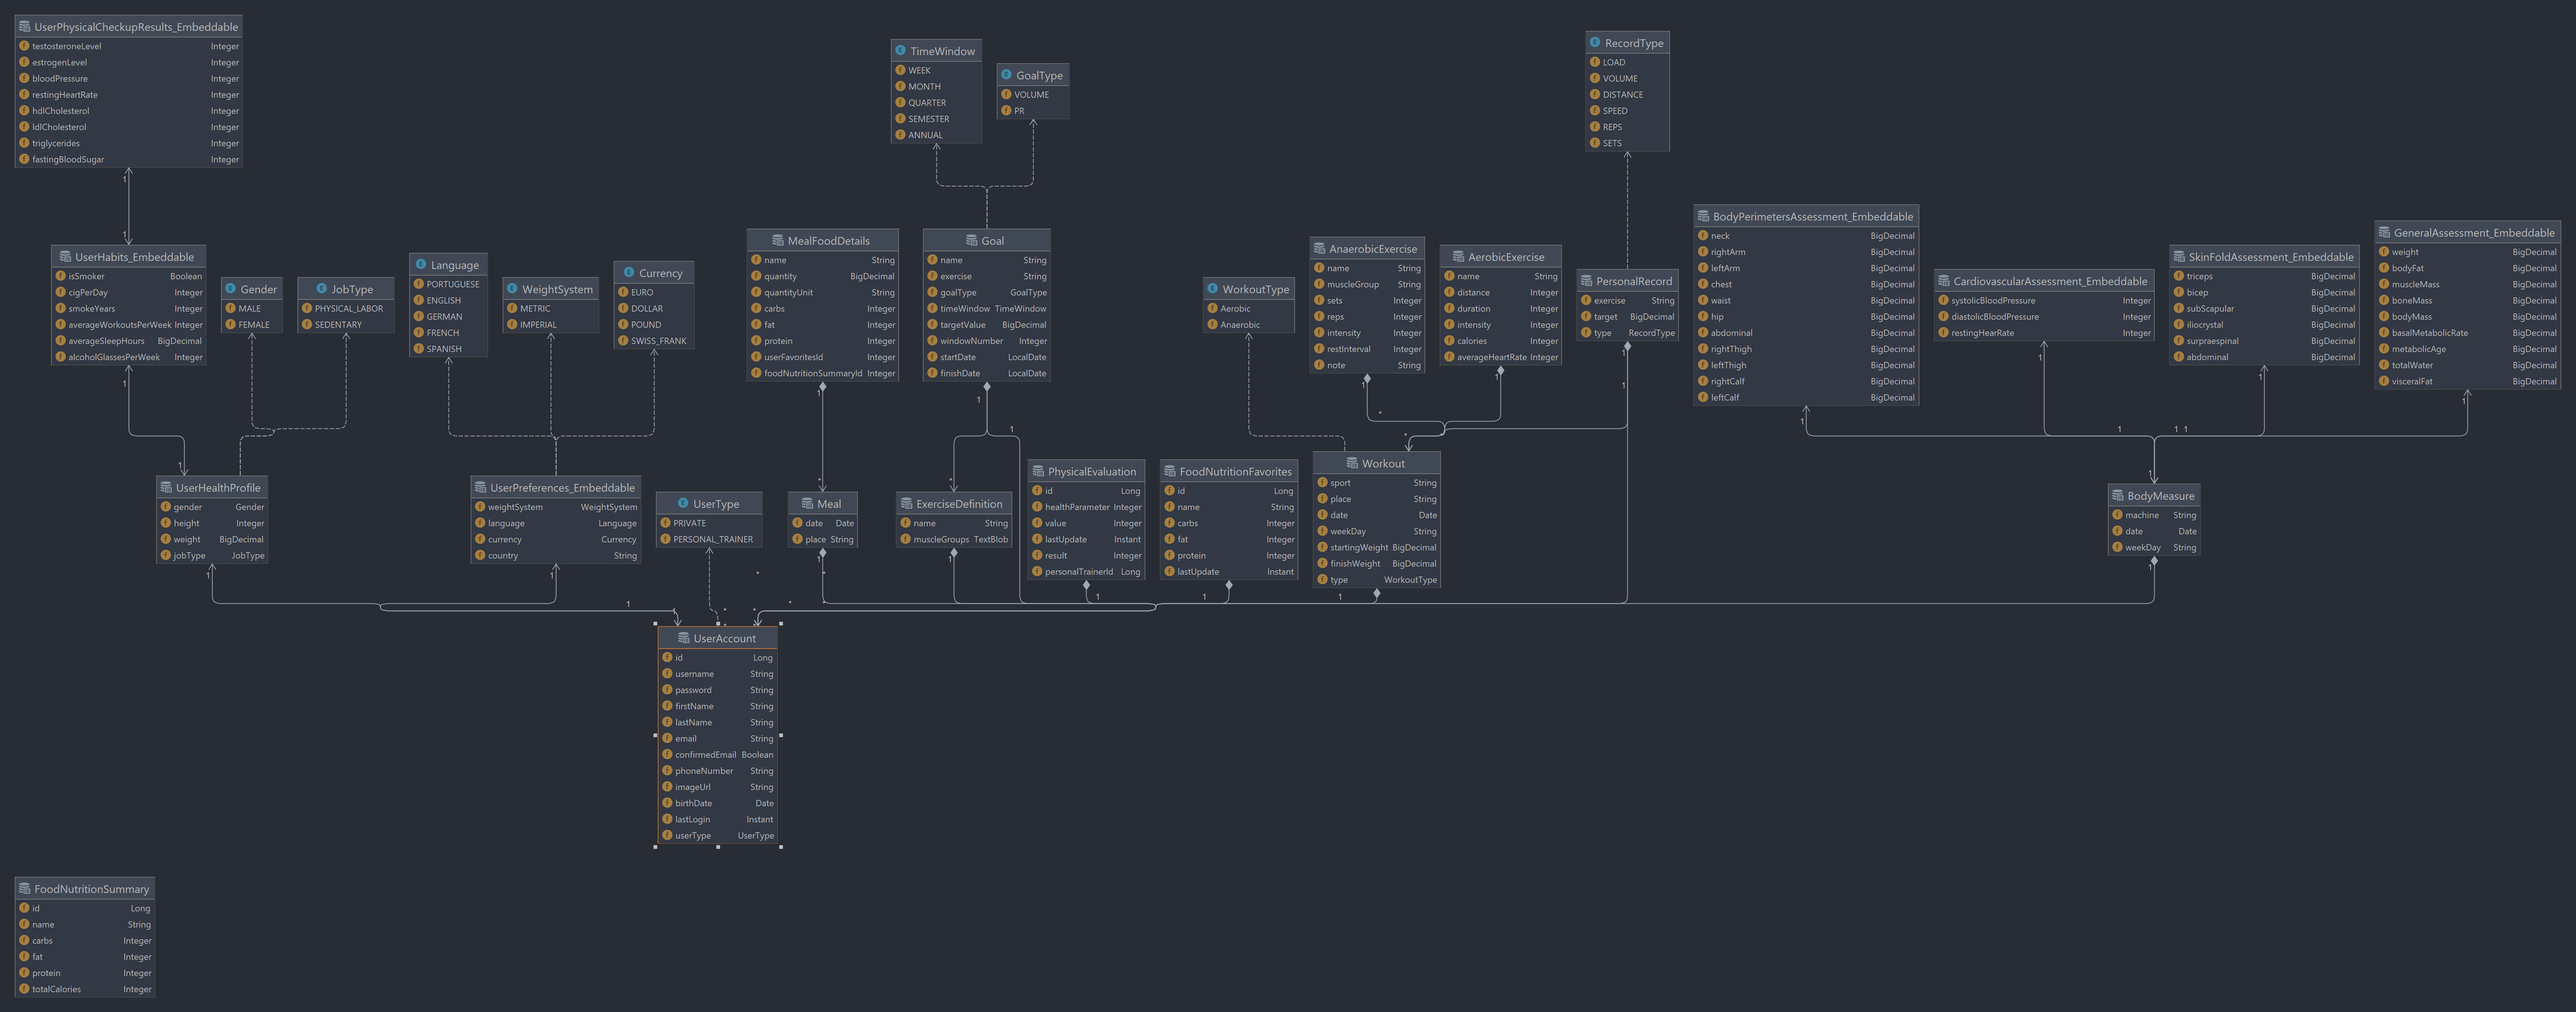
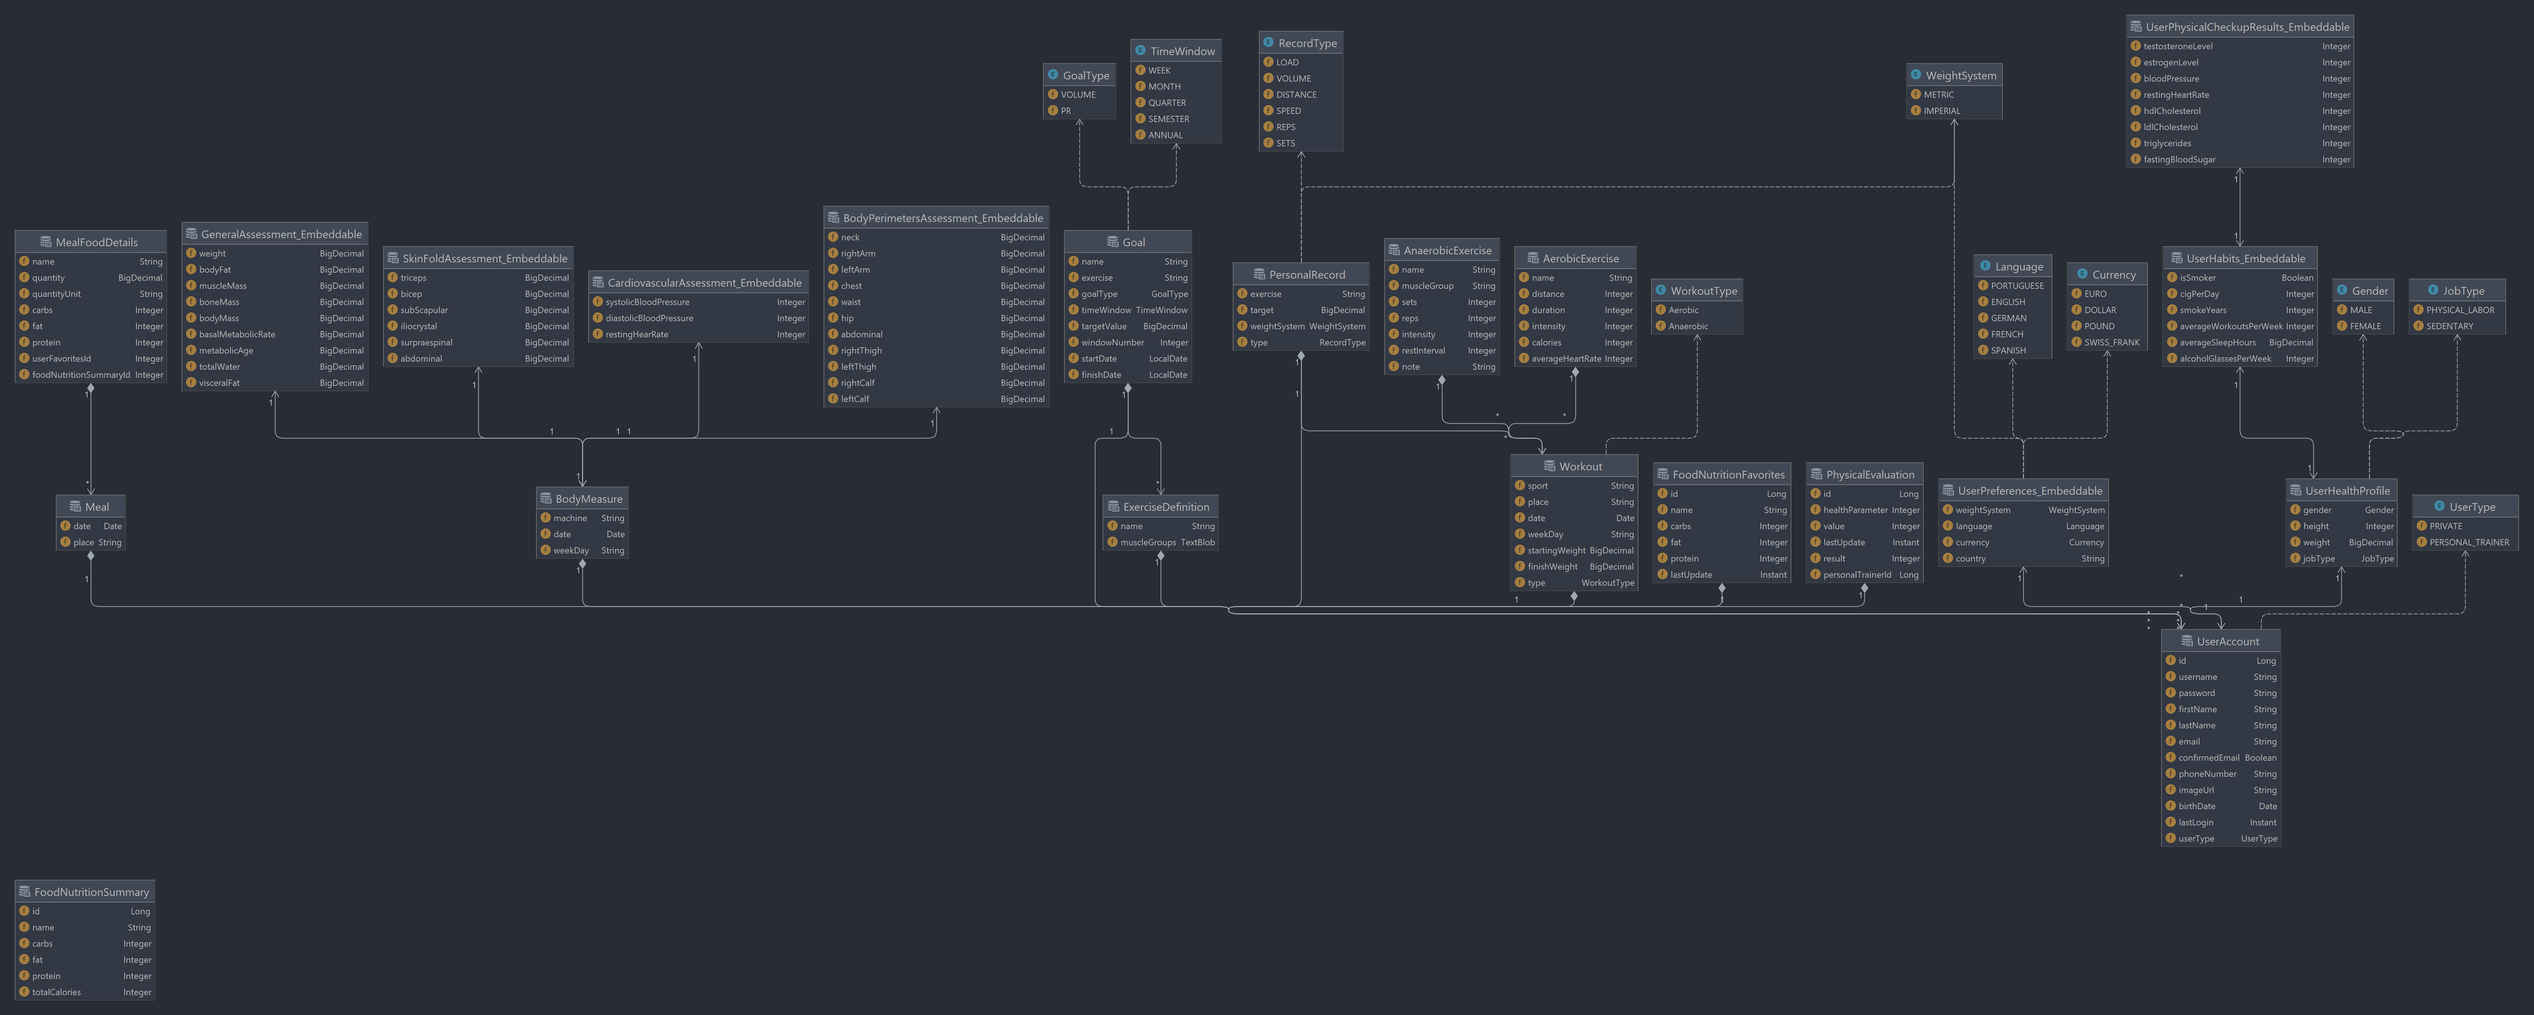
add weight system field personal record

diff --git a/src/main/java/com/myhealth/healthmanagermain/domain/PersonalRecord.java b/src/main/java/com/myhealth/healthmanagermain/domain/PersonalRecord.java
@@ -2,6 +2,7 @@ package com.myhealth.healthmanagermain.domain;
 
 import com.fasterxml.jackson.annotation.JsonIgnore;
 import com.myhealth.healthmanagermain.domain.enums.RecordType;
+import com.myhealth.healthmanagermain.domain.enums.WeightSystem;
 import java.io.Serializable;
 import java.math.BigDecimal;
 import javax.persistence.Column;
@@ -45,6 +46,11 @@ public class PersonalRecord implements Serializable {
   @NotNull
   @Column(name = "target", precision = 50, scale = 10)
   private BigDecimal target;
+
+  @NotNull
+  @Enumerated(EnumType.STRING)
+  @Column(name = "weight_system", nullable = false)
+  private WeightSystem weightSystem;
 
   @Enumerated(EnumType.STRING)
   @Column(name = "record_type", nullable = false)
